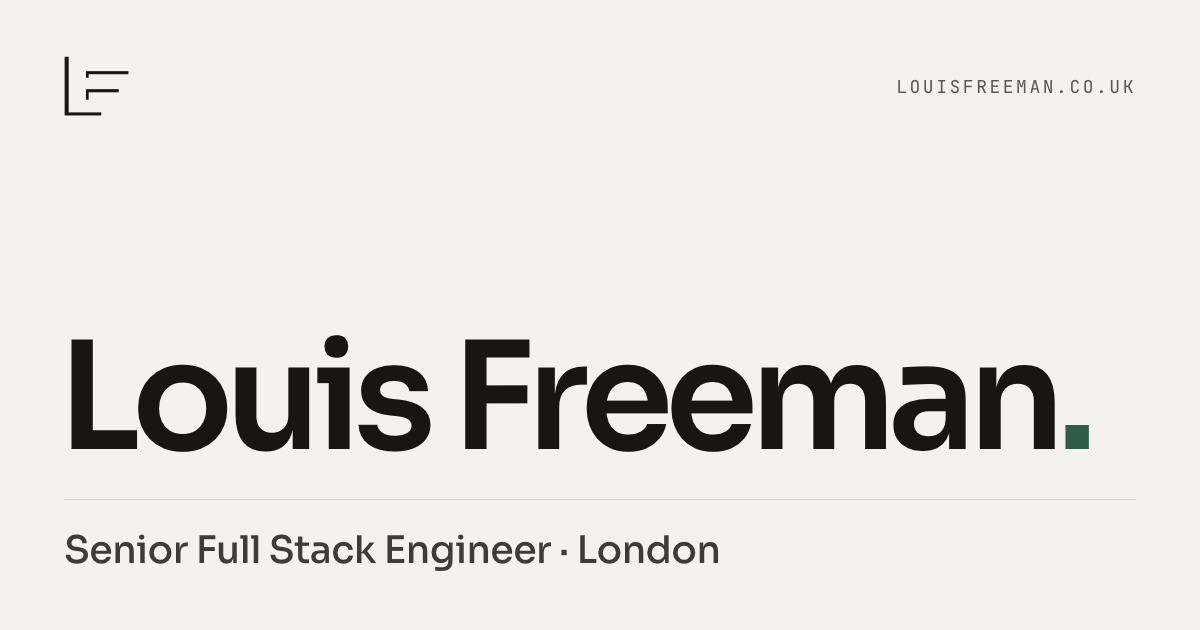
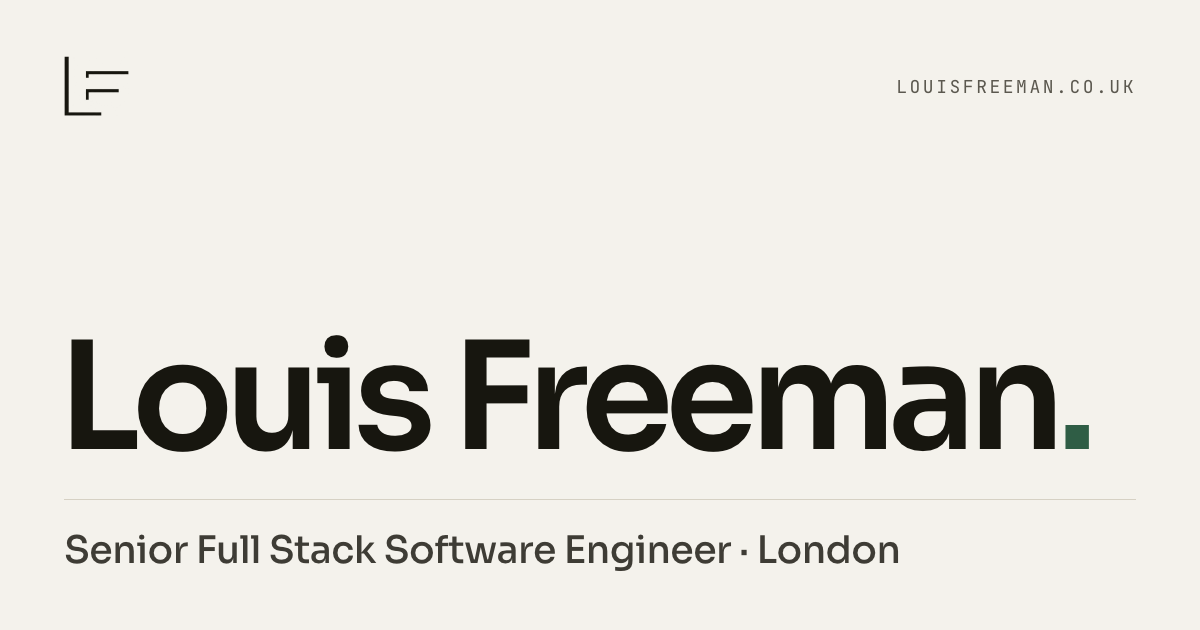
Content: align copy with the CV (#48)
Title is now Senior Full Stack Software Engineer (tagline, subline, page titles, meta, JSON-LD, re-rendered OG image); briefer Hnry summary and six one-line highlights, all shown on mobile; About chat answers aligned to the CV. Approved by the user.

Changed region(s): [[0.3083, 0.8444, 0.74, 0.9048]]

diff --git a/app/javascript/features/home/components/ExperienceCard.tsx b/app/javascript/features/home/components/ExperienceCard.tsx
@@ -26,7 +26,6 @@ interface ExperienceCardProps {
 }
 
 const SPARSE_HIGHLIGHT_THRESHOLD = 3;
-const COMPACT_HIGHLIGHT_LIMIT = 3;
 const LONG_WATERMARK_LENGTH = 8;
 const TOP_STACK_LAYER = 10;
 
@@ -63,9 +62,6 @@ function ExperienceCard({
   const isSparse = experience.highlights.length < SPARSE_HIGHLIGHT_THRESHOLD;
   const isLeadSummary = isSparse && !isCompact;
   const isDurationShown = experience.duration_label !== null && (isCompact || isSparse);
-  const highlights = isCompact
-    ? experience.highlights.slice(0, COMPACT_HIGHLIGHT_LIMIT)
-    : experience.highlights;
   const isSubsShown = !isCompact && experience.subs.length > 0;
   const layerStyle: CSSProperties = { zIndex: TOP_STACK_LAYER - stackIndex };
 
@@ -109,9 +105,9 @@ function ExperienceCard({
           <span>{experience.duration_label}</span>
         </p>
       )}
-      {highlights.length > 0 && (
+      {experience.highlights.length > 0 && (
         <ul className={styles.highlights}>
-          {highlights.map((highlight) => (
+          {experience.highlights.map((highlight) => (
             <li className={styles.highlight} key={highlight}>
               <span aria-hidden="true" className={styles.bullet} />
               <span>{highlight}</span>

diff --git a/app/javascript/features/about/components/ConversationIntro.test.tsx b/app/javascript/features/about/components/ConversationIntro.test.tsx
@@ -36,7 +36,7 @@ describe("ConversationIntro", () => {
     expect(
       screen.getByRole("heading", { level: 1, name: "Hello! I'm Louis Freeman." }),
     ).toBeInTheDocument();
-    expect(screen.getByText("Senior Full Stack Engineer · London")).toBeInTheDocument();
+    expect(screen.getByText("Senior Full Stack Software Engineer · London")).toBeInTheDocument();
     expect(screen.getByRole("img", { name: UI.about_portrait_alt })).toBeInTheDocument();
   });
 
@@ -72,8 +72,8 @@ describe("ConversationIntro", () => {
     expect(marks).toEqual([
       "full-stack engineer",
       "one of the first two engineers on the UK team",
-      "end-to-end ownership of hard integrations",
-      "line-manage three engineers",
+      "own delivery end to end",
+      "line-manage three intermediate engineers",
       "lead AI engineering for the UK business",
       "Product Design & Manufacture Engineering",
     ]);

diff --git a/app/javascript/features/home/components/ExperienceSection.test.tsx b/app/javascript/features/home/components/ExperienceSection.test.tsx
@@ -150,13 +150,16 @@ describe("ExperienceSection", () => {
       expect(currentCompany()).toBe("Soho House");
     });
 
-    it("shows at most three highlights", () => {
+    it("shows every highlight", () => {
       renderSection();
       const card = screen.getByRole("group", { name: "1 of 6" });
       const highlights = experienceFixture().experiences[0]?.highlights ?? [];
 
-      expect(within(card).getByText(highlights[2] ?? "")).toBeInTheDocument();
-      expect(within(card).queryByText(highlights[3] ?? "")).not.toBeInTheDocument();
+      expect(
+        within(card)
+          .getAllByRole("listitem")
+          .map((item) => item.textContent),
+      ).toEqual(expect.arrayContaining(highlights));
     });
   });
 

diff --git a/app/javascript/features/home/components/HeroSection.test.tsx b/app/javascript/features/home/components/HeroSection.test.tsx
@@ -45,7 +45,7 @@ describe("HeroSection", () => {
   it("shows the tagline and a scroll cue to the experience section", () => {
     renderHero();
 
-    expect(screen.getByText("Senior Full Stack Engineer")).toBeInTheDocument();
+    expect(screen.getByText("Senior Full Stack Software Engineer")).toBeInTheDocument();
     expect(screen.getByRole("link", { name: "Scroll" })).toHaveAttribute("href", "#experience");
   });
 

diff --git a/app/javascript/app/App.test.tsx b/app/javascript/app/App.test.tsx
@@ -27,7 +27,7 @@ const UI = {
   nav_work: "Work",
   page_load_error: "Couldn't load this page.",
   page_title_about: "About — Louis Freeman",
-  page_title_home: "Louis Freeman — Senior Full Stack Engineer, London",
+  page_title_home: "Louis Freeman — Senior Full Stack Software Engineer, London",
   page_title_work: "Work — Louis Freeman",
   retry: "Retry",
   work_heading: "Work",

diff --git a/app/javascript/components/Footer/Footer.test.tsx b/app/javascript/components/Footer/Footer.test.tsx
@@ -15,7 +15,7 @@ const PROFILE: Profile = {
   linkedin_url: "https://www.linkedin.com/in/louis-freeman7/",
   location: "London",
   name: "Louis Freeman",
-  role: "Senior Full Stack Engineer",
+  role: "Senior Full Stack Software Engineer",
   work_published: false,
 };
 

diff --git a/app/javascript/components/Nav/Nav.test.tsx b/app/javascript/components/Nav/Nav.test.tsx
@@ -15,7 +15,7 @@ const PROFILE: Profile = {
   linkedin_url: "https://www.linkedin.com/in/louis-freeman7/",
   location: "London",
   name: "Louis Freeman",
-  role: "Senior Full Stack Engineer",
+  role: "Senior Full Stack Software Engineer",
   work_published: true,
 };
 

diff --git a/spec/requests/pages_spec.rb b/spec/requests/pages_spec.rb
@@ -212,7 +212,7 @@ RSpec.describe "Pages" do
           "@type" => "Person",
           "address" => { "@type" => "PostalAddress", "addressLocality" => "London" },
           "email" => "hello@louisfreeman.co.uk",
-          "jobTitle" => "Senior Full Stack Engineer",
+          "jobTitle" => "Senior Full Stack Software Engineer",
           "name" => "Louis Freeman",
           "sameAs" => ["https://www.linkedin.com/in/louis-freeman7/", "https://github.com/Louisf77"],
           "url" => "#{base_url}/",

diff --git a/spec/factories/profiles.rb b/spec/factories/profiles.rb
@@ -1,7 +1,7 @@
 FactoryBot.define do
   factory :profile do
     name { "Louis Freeman" }
-    role { "Senior Full Stack Engineer" }
+    role { "Senior Full Stack Software Engineer" }
     location { "London" }
     email { "hello@louisfreeman.co.uk" }
     linkedin_url { "https://www.linkedin.com/in/louis-freeman7/" }

diff --git a/spec/factories/about_intros.rb b/spec/factories/about_intros.rb
@@ -1,6 +1,6 @@
 FactoryBot.define do
   factory :about_intro do
     heading { "Hello! I'm Louis Freeman." }
-    subline { "Senior Full Stack Engineer · London" }
+    subline { "Senior Full Stack Software Engineer · London" }
   end
 end

diff --git a/spec/factories/hero_sections.rb b/spec/factories/hero_sections.rb
@@ -1,6 +1,6 @@
 FactoryBot.define do
   factory :hero_section do
     greeting_prefix { "Hi, I'm " }
-    tagline { "Senior Full Stack Engineer" }
+    tagline { "Senior Full Stack Software Engineer" }
   end
 end
